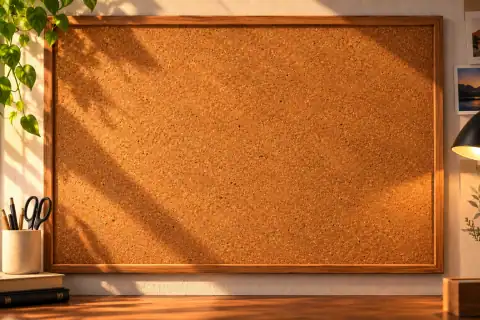
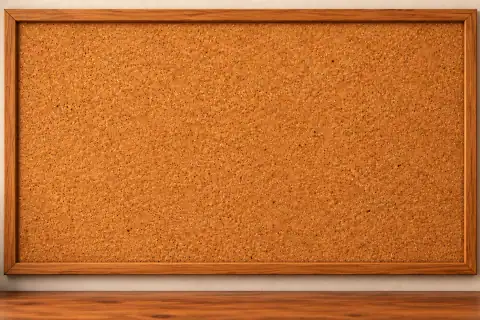
Quadro Cortiça panorâmico (2,4:1): cena em tela cheia no desktop, mural no miolo 3:2

diff --git a/src/lib/boards.ts b/src/lib/boards.ts
@@ -10,12 +10,14 @@ export type BoardInfo = {
   image: string;
   /** Área útil do quadro dentro da imagem (em % da imagem): é onde os 28 espaços ficam. */
   cork: { left: number; top: number; width: number; height: number };
+  /** Versão panorâmica (2,4:1) da mesma cena: a imagem 3:2 acima é o recorte central dela (62,5% da largura). Se existir, o desktop a usa de fundo, em tela cheia. */
+  wide?: string;
   /** Tamanho dos cards neste quadro (1 = normal). Quadros com área menor usam cards menores para não ficarem grudados. */
   size: number;
 };
 
 export const BOARDS: readonly BoardInfo[] = [
-  { id: "cortica", name: "Cortiça", image: "/img/quadro-desktop.webp?v=2", cork: { left: 11.8, top: 8.4, width: 78.2, height: 73.4 }, size: 1 },
+  { id: "cortica", name: "Cortiça", image: "/img/quadro-desktop.webp?v=3", wide: "/img/quadro-desktop-wide.webp?v=1", cork: { left: 3.4, top: 6.8, width: 93.3, height: 75.2 }, size: 1 },
   { id: "criativo", name: "Criativo", image: "/img/quadro-criativo.webp?v=2", cork: { left: 12.6, top: 9.2, width: 75.4, height: 69.5 }, size: 1 },
   { id: "geek", name: "Geek", image: "/img/quadro-geek.webp", cork: { left: 12.9, top: 8.2, width: 76, height: 71.1 }, size: 1 },
   { id: "leitura", name: "Leitura", image: "/img/quadro-leitura.webp", cork: { left: 15.5, top: 9.3, width: 68.4, height: 65.6 }, size: 0.86 },

diff --git a/src/components/DesktopBoard.tsx b/src/components/DesktopBoard.tsx
@@ -64,6 +64,11 @@ export function DesktopBoard(props: ViewProps) {
         {/* ambiente: a mesma foto desfocada preenche as laterais */}
         {/* eslint-disable-next-line @next/next/no-img-element */}
         <img src={boardImageS(look)} alt="" aria-hidden className="absolute inset-0 size-full scale-110 object-cover opacity-80 blur-md" />
+        {/* quadro panorâmico: a cena inteira, na altura da tela e centralizada; o miolo (3:2) é exatamente o mural, as pontas viram cenário em tela cheia */}
+        {look.wide && (
+          // eslint-disable-next-line @next/next/no-img-element
+          <img src={look.wide} alt="" aria-hidden draggable={false} className="pointer-events-none absolute top-0 left-1/2 h-full w-auto max-w-none -translate-x-1/2 select-none portrait:hidden" style={{ filter: locked ? "blur(11px) saturate(0.85)" : "none", transition: "filter 700ms ease-out" }} />
+        )}
 
         {/* aba na beirada: recolhe o menu lateral (o mural fica centralizado) ou o mostra de novo */}
         <button
